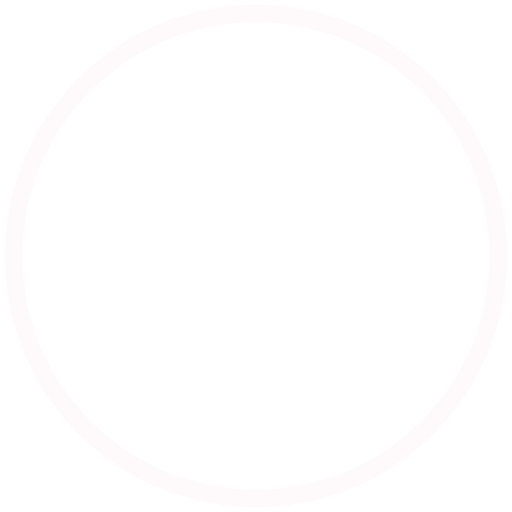
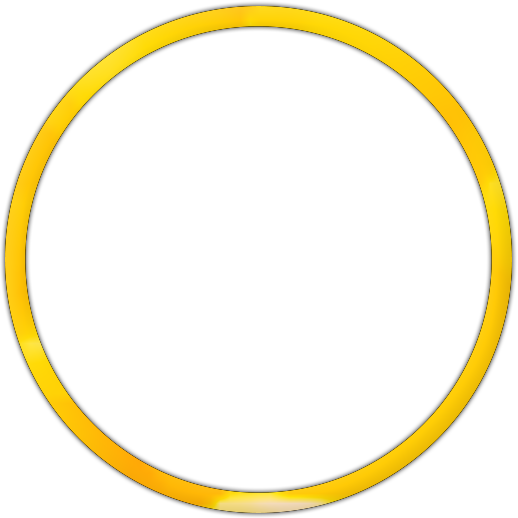
Move all approachCircle draw logic to approachCircle file

Changed region(s): [[0.0, 0.0, 1.0, 1.0]]

diff --git a/scripts/Texture.js b/scripts/Texture.js
@@ -1,14 +1,5 @@
 class Texture {
     static SELECTED;
-    static HIT_CIRCLE;
-    static HIT_CIRCLE_OVERLAY;
-    static HIT_CIRCLE_LEGACY;
-    static HIT_CIRCLE_OVERLAY_LEGACY;
-    static APPROACH_CIRCLE;
-    static SLIDER_B;
-    static REVERSE_ARROW;
-    static DEFAULTS;
-    static ARGON_DEFAULTS;
     static ARGON = {
         DEFAULTS: null,
         HIT_CIRCLE: null,
@@ -16,6 +7,7 @@ class Texture {
         SLIDER_B: null,
         REVERSE_ARROW: null,
         SLIDER_FOLLOW_CIRCLE: null,
+        APPROACH_CIRCLE: null,
     };
     static LEGACY = {
         DEFAULTS: null,
@@ -24,6 +16,7 @@ class Texture {
         SLIDER_B: null,
         REVERSE_ARROW: null,
         SLIDER_FOLLOW_CIRCLE: null,
+        APPROACH_CIRCLE: null,
     };
 
     static createSelectedHitCircle() {
@@ -84,7 +77,7 @@ class Texture {
                 cap: "round",
                 alignment: 1,
             })
-            .arc(0, 0, 59, 0, Math.PI * 2);
+            .drawCircle(0, 0, 59);
     }
 
     static createSliderBall() {
@@ -159,9 +152,6 @@ class Texture {
             case "HIT_CIRCLE_OVERLAY":
                 graphics = Texture.createHitCircleOverlay();
                 break;
-            case "APPROACH_CIRCLE":
-                graphics = Texture.createApproachCircle();
-                break;
             case "SLIDER_BALL":
                 graphics = Texture.createSliderBall();
                 break;
@@ -235,8 +225,8 @@ class Texture {
             texture: Texture.createTexture("SLIDER_FOLLOW_CIRCLE"),
             isHD: false,
         };
-        Texture.APPROACH_CIRCLE = {
-            texture: Texture.createTexture("APPROACH_CIRCLE"),
+        Texture.ARGON.APPROACH_CIRCLE = {
+            texture: PIXI.Texture.from("static/argon/approachcircle@2x.png"),
             isHD: false,
         };
         Texture.ARGON.DEFAULTS = [...Array(10)].fill(null, 0, 10).map((_, idx) => {
@@ -245,12 +235,13 @@ class Texture {
                 isHD: false,
             };
         });
-        
+
         Texture.updateTextureFor("HIT_CIRCLE");
         Texture.updateTextureFor("HIT_CIRCLE_OVERLAY");
         Texture.updateTextureFor("SLIDER_B");
         Texture.updateTextureFor("SLIDER_FOLLOW_CIRCLE");
         Texture.updateTextureFor("REVERSE_ARROW");
+        Texture.updateTextureFor("APPROACH_CIRCLE");
         Texture.updateNumberTextures([...Array(10)].fill({}, 0, 10));
     }
 
@@ -281,7 +272,7 @@ class Texture {
                 Texture.LEGACY.SLIDER_B = {
                     ring: {
                         texture: base64 ? PIXI.Texture.from(base64) : PIXI.Texture.from("static/legacy/sliderb0@2x.png"),
-                        isHD,
+                        isHD: base64 ? isHD : false,
                     },
                     arrow: {
                         texture: PIXI.Texture.from("static/empty.png"),
@@ -297,7 +288,7 @@ class Texture {
                 Texture.LEGACY.REVERSE_ARROW = {
                     arrow: {
                         texture: PIXI.Texture.from(base64 ?? "static/legacy/reversearrow@2x.png"),
-                        isHD,
+                        isHD: base64 ? isHD : false,
                     },
                     ring: {
                         texture: PIXI.Texture.from("static/empty.png"),
@@ -308,6 +299,12 @@ class Texture {
             case "SLIDER_FOLLOW_CIRCLE":
                 Texture.LEGACY.SLIDER_FOLLOW_CIRCLE = {
                     texture: PIXI.Texture.from(base64 ?? "static/legacy/sliderfollowcircle@2x.png"),
+                    isHD: base64 ? isHD : false,
+                };
+                break;
+            case "APPROACH_CIRCLE":
+                Texture.LEGACY.APPROACH_CIRCLE = {
+                    texture: PIXI.Texture.from(base64 ?? "static/legacy/approachcircle@2x.png"),
                     isHD: base64 ? isHD : false,
                 };
                 break;

diff --git a/scripts/HitCircle.js b/scripts/HitCircle.js
@@ -35,6 +35,8 @@ class HitCircle {
     colourIdx;
     comboIdx;
 
+    opacity = 0;
+
     drawSelected() {
         const circleBaseScale = Beatmap.moddedStats.radius / 54.4;
 
@@ -85,6 +87,7 @@ class HitCircle {
             }
         }
         currentOpacity = Clamp(currentOpacity, 0, 1);
+        this.opacity = currentOpacity;
 
         if (this.hitTime > this.endTime && timestamp > this.endTime) currentOpacity = 0;
 
@@ -133,21 +136,7 @@ class HitCircle {
         }
 
         this.number.draw(timestamp);
-
-        // Set Approach Circle opacity and expand
-        let approachRateExpandRate = 1;
-        if (timestamp <= this.time) {
-            const preemptRate = (timestamp - (this.time - currentPreempt)) / currentPreempt;
-            approachRateExpandRate = Math.max(-3 * Math.min(preemptRate, 1) + 4, 1);
-        }
-        this.approachCircleObj.obj.x = x * Game.SCALE_RATE;
-        this.approachCircleObj.obj.y = y * Game.SCALE_RATE;
-        const approachRateSize = approachRateExpandRate * circleBaseScale * Game.SCALE_RATE * (236 / 256) ** 2;
-        if (mods.HD || timestamp > this.time) {
-            this.approachCircleObj.draw(0, approachRateSize, this.colour);
-        } else {
-            this.approachCircleObj.draw(currentOpacity, approachRateSize, this.colour);
-        }
+        this.approachCircleObj.draw(timestamp);
     }
 
     eval(inputIdx) {
@@ -184,20 +173,6 @@ class HitCircle {
             x: this.stackHeight * currentStackOffset,
             y: this.stackHeight * currentStackOffset,
         };
-
-        // if (this.time === 45886) {
-        //     console.log(
-        //         Fixed(
-        //             Dist(
-        //                 currentInput,
-        //                 mods.HR
-        //                     ? Add(FlipHR({ x: this.originalX, y: this.originalY }), additionalMemory)
-        //                     : Add({ x: this.originalX, y: this.originalY }, additionalMemory)
-        //             ) / radius,
-        //             2
-        //         )
-        //     );
-        // }
 
         // Misaim
         if (
@@ -275,7 +250,7 @@ class HitCircle {
         hitCircleContainer.x = (this.originalX * Game.WIDTH) / 512;
         hitCircleContainer.y = (this.originalY * Game.WIDTH) / 512;
 
-        this.approachCircleObj = new ApproachCircle(this.originalX, this.originalY);
+        this.approachCircleObj = new ApproachCircle(this);
 
         this.obj = hitCircleContainer;
     }

diff --git a/scripts/ApproachCircle.js b/scripts/ApproachCircle.js
@@ -1,22 +1,41 @@
 class ApproachCircle {
     obj;
-    positionX;
-    positionY;
+    hitCircle;
 
-    draw(opacity, expandRate, color) {
-        this.obj.alpha = opacity
-        this.obj.scale.set(expandRate)
-        this.obj.tint = color
-    }
+    constructor(hitCircle) {
+        this.hitCircle = hitCircle;
 
-    constructor(positionX, positionY) {
-        this.positionX = positionX
-        this.positionY = positionY
-
-        const approachCircle = new PIXI.Sprite(Texture.APPROACH_CIRCLE.texture);
-        approachCircle.x = (positionX * Game.WIDTH) / 512;
-        approachCircle.y = (positionY * Game.HEIGHT) / 512;
+        const approachCircle = new PIXI.Sprite(Texture.ARGON.APPROACH_CIRCLE.texture);
         approachCircle.anchor.set(0.5);
         this.obj = approachCircle;
+    }
+
+    draw(timestamp) {
+        const skinType = skinning.type === "0" ? "ARGON" : "LEGACY";
+        const hdScale = Texture[skinType].APPROACH_CIRCLE.isHD ? 0.5 : 1;
+        this.obj.texture = Texture[skinType].APPROACH_CIRCLE.texture;
+
+        this.obj.tint = this.hitCircle.colour;
+
+        let approachRateExpandRate = 1;
+
+        if (timestamp <= this.hitCircle.time) {
+            const preemptRate = (timestamp - (this.hitCircle.time - Beatmap.moddedStats.preempt)) / Beatmap.moddedStats.preempt;
+            approachRateExpandRate = Math.max(-3 * Math.min(preemptRate, 1) + 4, 1);
+        }
+
+        const x = this.hitCircle.originalX;
+        const y = !mods.HR ? this.hitCircle.originalY : 384 - this.hitCircle.originalY;
+        const stackDistance = this.hitCircle.stackHeight * Beatmap.moddedStats.stackOffset;
+
+        this.obj.x = (x + stackDistance) * Game.SCALE_RATE;
+        this.obj.y = (y + stackDistance) * Game.SCALE_RATE;
+
+        const circleBaseScale = Beatmap.moddedStats.radius / 54.4;
+
+        this.obj.scale.set(hdScale * approachRateExpandRate * Game.SCALE_RATE * circleBaseScale * (236 / 256) ** 2);
+        this.obj.alpha = this.hitCircle.opacity;
+
+        if (mods.HD || timestamp > this.hitCircle.time) this.obj.alpha = 0;
     }
 }

diff --git a/scripts/SliderBall.js b/scripts/SliderBall.js
@@ -45,7 +45,7 @@ class SliderBall {
     draw(timestamp) {
         const skinType = skinning.type === "0" ? "ARGON" : "LEGACY";
         const circleBaseScale = (Beatmap.moddedStats.radius / 54.4) * (skinType === "ARGON" ? 0.95 : 1);
-        const sliderFollowSkinScale = Texture[skinType].SLIDER_FOLLOW_CIRCLE.isHD ? 0.25 : 0.5;
+        const sliderFollowSkinScale = (Texture[skinType].SLIDER_FOLLOW_CIRCLE.isHD ? 0.25 : 0.5);
 
         this.followCircle.texture = Texture[skinType].SLIDER_FOLLOW_CIRCLE.texture;
         this.arrow.texture = Texture[skinType].SLIDER_B.arrow.texture;

diff --git a/scripts/Skinning.js b/scripts/Skinning.js
@@ -151,7 +151,7 @@ class Skinning {
         // console.log(Skinning.REVERSE_ARROW);
         // console.log(Skinning.APPROACH_CIRCLE);
 
-        ["HIT_CIRCLE", "HIT_CIRCLE_OVERLAY", "SLIDER_B", "REVERSE_ARROW", "DEFAULTS", "SLIDER_FOLLOW_CIRCLE"].forEach((element) => {
+        ["HIT_CIRCLE", "HIT_CIRCLE_OVERLAY", "SLIDER_B", "REVERSE_ARROW", "DEFAULTS", "SLIDER_FOLLOW_CIRCLE", "APPROACH_CIRCLE"].forEach((element) => {
             if (!Skinning[element]) return;
 
             if (element === "DEFAULTS") {

diff --git a/scripts/SliderMesh.js b/scripts/SliderMesh.js
@@ -71,7 +71,7 @@ void main() {
     vec4 baseColor = texture2D(uSampler2, vec2(dist, texturepos));
     vec4 color_mixed = sliderTrackOverride;
 
-    if (skinning != 2.0) color_mixed = tint;
+    if (skinning != 2.0 && skinning != 3.0) color_mixed = tint;
 
     float scale = circleBaseScale;
     if (skinning == 0.0) scale *= 0.95;
